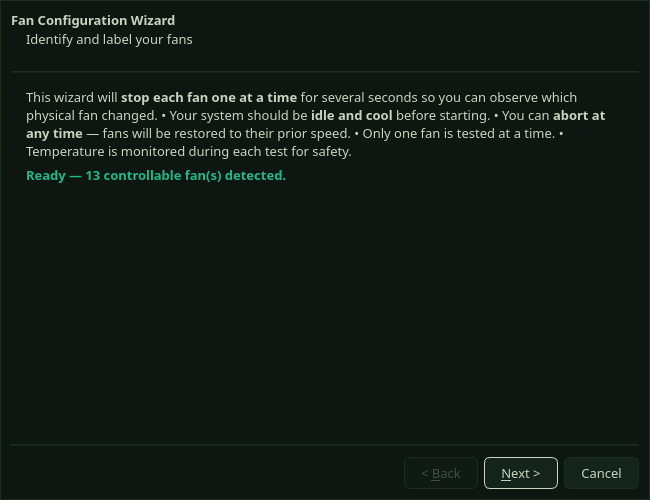
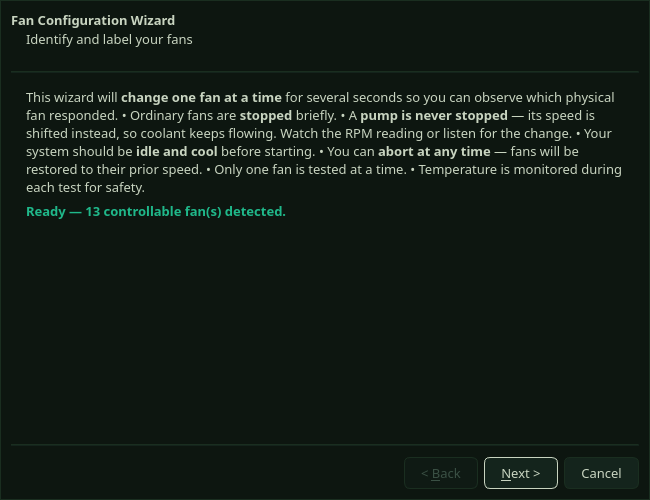
release: v2.50.0 — the Fan Wizard stops promising to stop your pump
README release + pairing line, and the recaptured wizard-intro screenshot.

The daemon floor stays at >= v2.11.0: v2.50.0's new behaviour is gated on the
v2.28.0 `control.header_roles` capability and keeps the old "stop" wording
against any daemon without it, so nothing here raises the requirement.

screenshots/auto/01_dashboard.png was NOT committed: its recapture diff is the
known variant flip, bound-boxed to a 25x213px strip inside the chart at
identical image dimensions, which is noise rather than a UI change.

Changed region(s): [[0.0308, 0.18, 0.9538, 0.39], [0.0308, 0.39, 0.4308, 0.45]]

diff --git a/README.md b/README.md
@@ -1,6 +1,6 @@
 # Control-OFC GUI
 
-**Latest release:** v2.49.7 — 2026-09-01. Pairs with `control-ofc-daemon` ≥ v2.11.0 (v2.16.0 or newer for the Settings ▸ Daemon Configuration card, v2.17.0 for the Dashboard's fan-control-engine health banner, v2.18.0 for Rescan Hardware to also look for an OpenFan controller, v2.21.0 for the Controls page's "Not controlled" badge, v2.22.0 for the live output figure on each Controls card and the Dashboard's unresolved-control warning, v2.23.0 for removing a profile search directory, v2.24.0 for the thermal-forcing verify refusal shown as a soft notice, v2.24.2 for the subsystem age shown as data freshness rather than poll time, v2.25.0 for the daemon to also distrust the widened `nct67xx` `CPUTIN` set the GUI warns about and to quarantine an implausibly-low CPU reading, v2.26.0 for the thermal ladder's forced duties to act as floors over profile output rather than replacements for it and for the emergency trip point to be derived per machine from the CPU's own reported ceiling, v2.27.0 for fan telemetry to be reported only where it was actually measured; all stand down gracefully on older daemons). The v2.26.0 and v2.27.0 behaviours need no GUI support — nothing on the wire changed. The trip point is reported in a field the GUI already renders verbatim, and `rpm` was already optional with a fan's absence already meaning "not currently readable". See [`CHANGELOG.md`](CHANGELOG.md) for the full history.
+**Latest release:** v2.50.0 — 2026-09-01. Pairs with `control-ofc-daemon` ≥ v2.11.0 (v2.16.0 or newer for the Settings ▸ Daemon Configuration card, v2.17.0 for the Dashboard's fan-control-engine health banner, v2.18.0 for Rescan Hardware to also look for an OpenFan controller, v2.21.0 for the Controls page's "Not controlled" badge, v2.22.0 for the live output figure on each Controls card and the Dashboard's unresolved-control warning, v2.23.0 for removing a profile search directory, v2.24.0 for the thermal-forcing verify refusal shown as a soft notice, v2.24.2 for the subsystem age shown as data freshness rather than poll time, v2.25.0 for the daemon to also distrust the widened `nct67xx` `CPUTIN` set the GUI warns about and to quarantine an implausibly-low CPU reading, v2.26.0 for the thermal ladder's forced duties to act as floors over profile output rather than replacements for it and for the emergency trip point to be derived per machine from the CPU's own reported ceiling, v2.27.0 for fan telemetry to be reported only where it was actually measured, v2.28.0 for per-channel PWM header roles and pump-safe fan identify; all stand down gracefully on older daemons). The v2.26.0 and v2.27.0 behaviours need no GUI support — nothing on the wire changed. The trip point is reported in a field the GUI already renders verbatim, and `rpm` was already optional with a fan's absence already meaning "not currently readable". v2.50.0 consumes the v2.28.0 `control.header_roles` capability: where the daemon classifies a header as a pump, the Fan Wizard says the pump's speed will change rather than that it will stop — and against any older daemon it keeps the "stop" wording, because that is what an older daemon actually does. See [`CHANGELOG.md`](CHANGELOG.md) for the full history.
 
 Desktop fan control interface for Linux. Communicates with the [`control-ofc-daemon`](https://github.com/Plan-B-Development/control-ofc-daemon) service to monitor temperatures, manage fan speeds, and apply custom fan curves.
 
